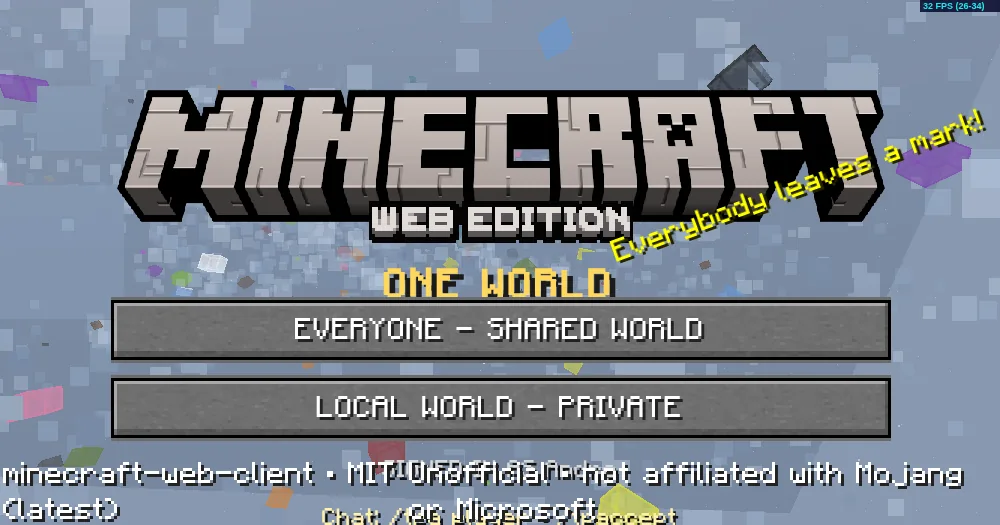
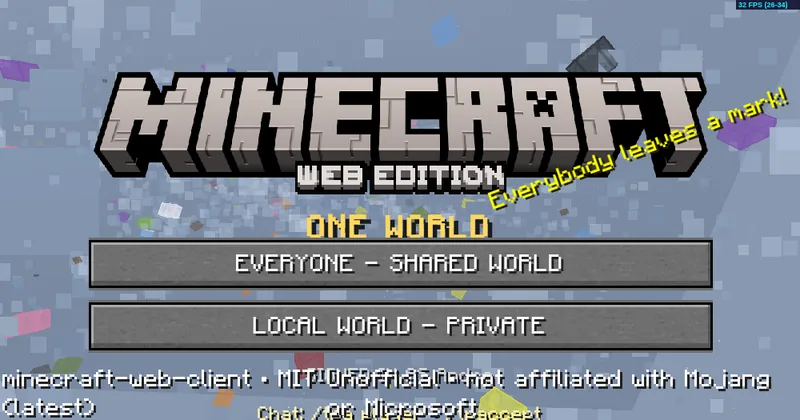
feat: add Slipstream to the hub as the first card
Wide card at the top; ONE WORLD and Memory Burn become regular cards so both
grids still fill every row. slipstream.andrenijman.com is not behind
games-guard (the broker token cannot add Worker routes), so it is listed in
OUTSIDE_WORKER.

diff --git a/src/data/games.ts b/src/data/games.ts
@@ -29,6 +29,17 @@ export type Game = {
 
 export const GAMES: Game[] = [
   {
+    host: "slipstream.andrenijman.com",
+    name: "Slipstream",
+    genre: ["Racing", "Multiplayer"],
+    description: "A free 3D browser racing game: a new procedurally generated track every race, online rooms with friends, solo events with AI rivals, time trials with ghosts, replays, and a garage of cars to unlock, paint and upgrade.",
+    meta: "3D racing · a new track every race · online rooms · AI rivals · ghosts and replays · car garage",
+    image: "slipstream.png",
+    alt: "Slipstream in play: a red car on a winding forest road below red rock hills and pine trees",
+    label: "Play Slipstream, a free 3D browser racing game with online races",
+    wide: "all",
+  },
+  {
     host: "mc.andrenijman.com",
     name: "ONE WORLD",
     genre: ["Sandbox", "Survival", "Multiplayer"],
@@ -37,7 +48,6 @@ export const GAMES: Game[] = [
     image: "mc.png",
     alt: "ONE WORLD browser survival game menu with shared-world and private local-world choices",
     label: "Play ONE WORLD, a persistent shared anarchy survival world that requires a games.andrenijman.com account",
-    wide: "all",
     isBasedOn: ["https://github.com/zardoy/minecraft-web-client", "https://github.com/MultiPaper/MultiPaper"],
   },
   {
@@ -111,7 +121,6 @@ export const GAMES: Game[] = [
     image: "memoryburn.png",
     alt: "Memory Burn in play: a potato gunslinger surrounded by blob robots on a neon grid floor, with a wave timer and side-job HUD",
     label: "Play Memory Burn, a free cyberpunk wave-survival shooter with a 15-contract story",
-    wide: "all",
   },
   {
     host: "wildbound.andrenijman.com",

diff --git a/src/styles/hub.css b/src/styles/hub.css
@@ -47,8 +47,8 @@
 @media (max-width: 559px) { .strip--three div { padding: 16px 14px; } }
 
 /* ── the gallery ──────────────────────────────────────────── */
-/* ONE WORLD takes two columns wherever there are two, Celeste only at three,
-   so thirteen cards fill every row at every width. */
+/* Slipstream takes two columns wherever there are two, SLINGWRECK and Celeste
+   only at three, so fifteen cards fill every row at every width. */
 @media (min-width: 1060px) {
   .game--wide-lg { grid-column: span 2; }
   .game--wide-lg img { aspect-ratio: 2000 / 700; }

diff --git a/tests/unit/games.test.ts b/tests/unit/games.test.ts
@@ -14,8 +14,8 @@ function workerGames(): Record<string, { name: string; image: string; credit?: s
 }
 
 // On the hub but not behind the Worker: served by its own host.
-// memoryburn has no games-guard route yet: the broker token cannot add Worker routes.
-const OUTSIDE_WORKER = new Set(["scrap.andrenijman.com", "memoryburn.andrenijman.com"]);
+// memoryburn and slipstream have no games-guard route yet: the broker token cannot add Worker routes.
+const OUTSIDE_WORKER = new Set(["scrap.andrenijman.com", "memoryburn.andrenijman.com", "slipstream.andrenijman.com"]);
 
 describe("the hub and the Worker agree", () => {
   const worker = workerGames();
